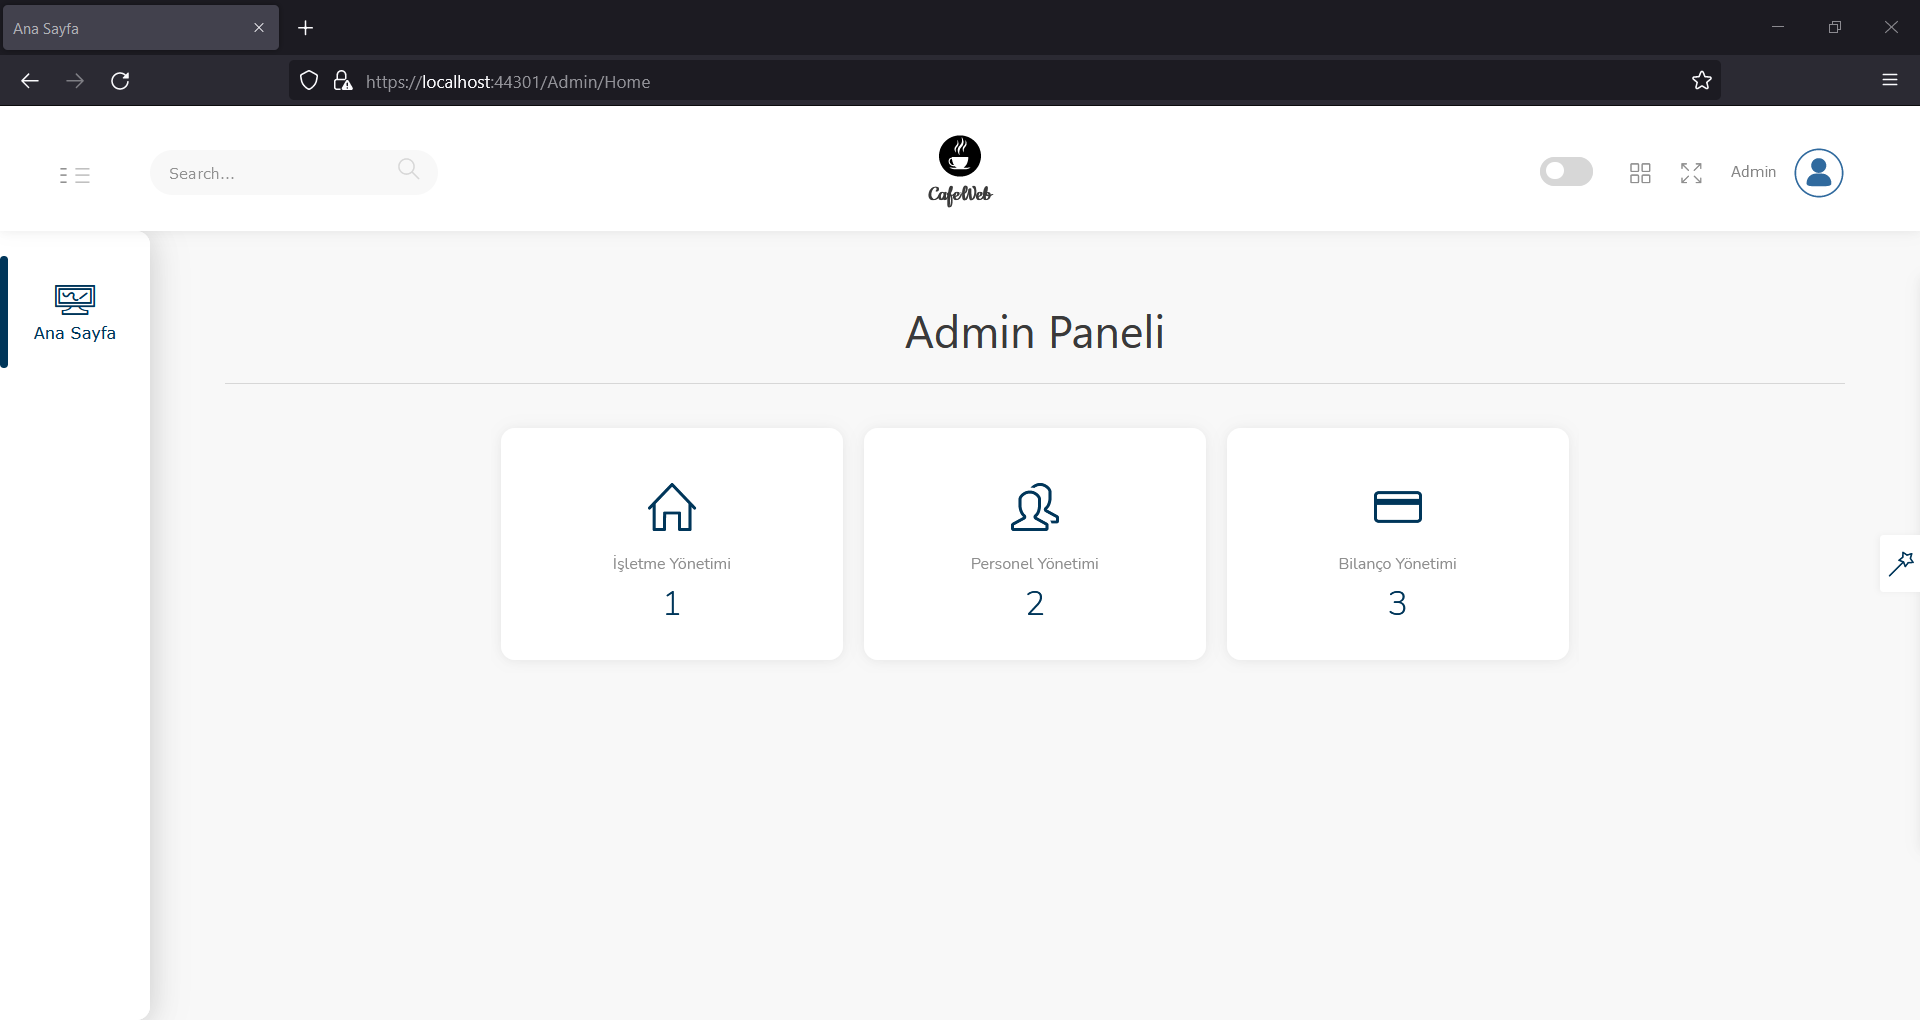
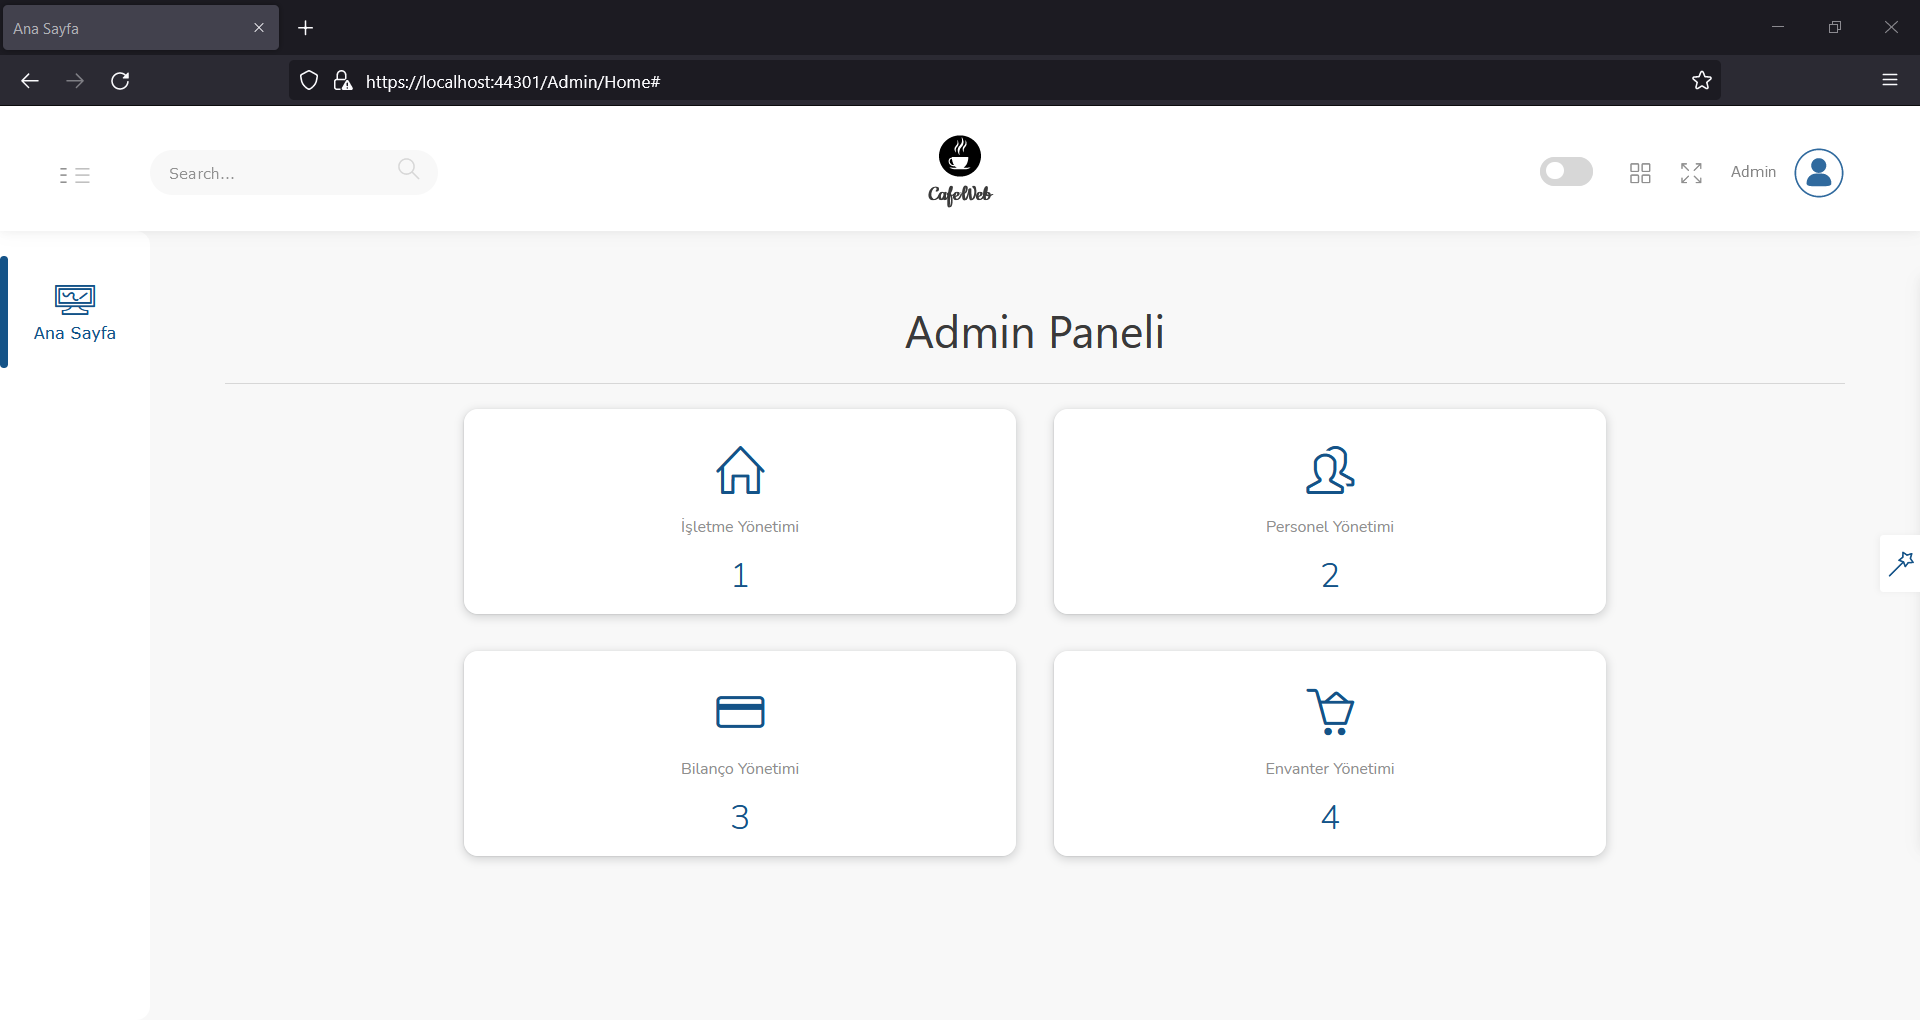
PostBack önlemi: setState ve işlemler için aksiyon alert

diff --git a/CafeWeb/Users/assets/js/main.js b/CafeWeb/Users/assets/js/main.js
@@ -1,9 +1,9 @@
 "use strict";
 
-function GetSelectedRow(txt) {
+function GetOrgRow(row) {
     $(document).ready(function () {
 
-        var gridRow = txt.parentNode.parentNode.parentNode;
+        var gridRow = row.parentNode.parentNode.parentNode;
         $('#orgUpdateId').val(gridRow.cells[0].textContent);
         $('#orgUpdateId').prop('readonly', true);
         $('#orgUpdateName').val(gridRow.cells[1].textContent);
@@ -20,7 +20,11 @@ var app = new Vue({
         save: true,
         edit: false,
         orgPop: false,
-        persPop: false
+        persPop: false,
+        isPostBack: false
+    },
+    mounted() {
+        this.getState();
     },
     methods: {
         focusBtn: function (typ) {
@@ -38,14 +42,58 @@ var app = new Vue({
 
                 default:
                     break;
-
             }
-
         },
         dynamicClass: function (btnList) {
             for (let i = 0; i < btnList.length; i++) {
                 document.getElementById(btnList[i]).className = 'btn';
                 document.getElementById(btnList[i]).classList.add('btn-light');
+            }
+        },
+        setState: function (showOrg, showPers, save, edit, isPostBack) {
+            sessionStorage.setItem('showOrg', showOrg);
+            sessionStorage.setItem('showPers', showPers);
+            sessionStorage.setItem('save', save);
+            sessionStorage.setItem('edit', edit);
+            sessionStorage.setItem('isPostBack', isPostBack);
+        },
+        getState: function () {
+            if (sessionStorage.getItem('isPostBack') != null || sessionStorage.getItem('isPostBack') != "") {
+                this.isPostBack = sessionStorage.getItem('isPostBack') == "true" ? true : false;
+
+                if (this.isPostBack) {
+                    if (sessionStorage.getItem('showOrg') != null || sessionStorage.getItem('showOrg') != "") {
+                        this.showOrg = sessionStorage.getItem('showOrg') == "true" ? true : false;
+                    }
+                    if (sessionStorage.getItem('showPers') != null || sessionStorage.getItem('showPers') != "") {
+                        this.showPers = sessionStorage.getItem('showPers') == "true" ? true : false;
+                    }
+                    if (sessionStorage.getItem('save') != null || sessionStorage.getItem('save') != "") {
+                        this.save = sessionStorage.getItem('save') == "true" ? true : false;
+                    }
+                    if (sessionStorage.getItem('edit') != null || sessionStorage.getItem('edit') != "") {
+                        this.edit = sessionStorage.getItem('edit') == "true" ? true : false;
+                    }
+
+                    this.isPostBack = false;
+                    sessionStorage.setItem('isPostBack', this.isPostBack);
+                }
+            }
+        }
+    },
+    watch: {
+        showOrg: function (val) {
+            if (!val && !this.showPers) {
+                this.save = true;
+                this.edit = false;
+                this.focusBtn('saveBtn');
+            }
+        },
+        showPers: function (val) {
+            if (!val && !this.showOrg) {
+                this.save = true;
+                this.edit = false;
+                this.focusBtn('saveBtn');
             }
         }
     }

diff --git a/CafeWeb/Users/assets/css/main.css b/CafeWeb/Users/assets/css/main.css
@@ -44,6 +44,42 @@ body.show-spinner::after {
   }
 }
 
+#adminIsl {
+    align-items: center !important;
+    align-self: center;
+    align-content: center !important;
+    justify-content: center !important;
+    justify-items: center !important;
+    justify-self: center;
+    row-gap: 2rem;
+    column-gap: 2rem;
+}
+
+#adminIsl .card {
+    box-shadow: rgba(60, 64, 67, 0.3) 0px 1px 2px 0px, rgba(60, 64, 67, 0.15) 0px 2px 6px 2px;
+}
+
+#adminIsl .card:hover {
+    box-shadow: rgba(0, 0, 0, 0.05) 0px 0px 0px 1px;
+}
+
+#adminIsl .card:active {
+    box-shadow: rgba(50, 50, 93, 0.25) 0px 30px 60px -12px inset, rgba(0, 0, 0, 0.3) 0px 18px 36px -18px inset;
+}
+
+#adminIsl .card {
+    padding: 1rem;
+}
+
+.form-box a {
+    align-items: center !important;
+    align-self: center;
+    align-content: center !important;
+    justify-content: center !important;
+    justify-items: center !important;
+    justify-self: center;
+}
+
 .styled-table {
     border-collapse: collapse;
     margin: 25px 0;

diff --git a/CafeWeb/Users/Admin/Home.aspx.cs b/CafeWeb/Users/Admin/Home.aspx.cs
@@ -33,7 +33,19 @@ namespace CafeWebAdmin
 
         protected void SaveOrg_ServerClick(object sender, EventArgs e)
         {
-            ApplicationDBContext.SetOrg(orgName.Value.ToString(), isActive.Checked); ;
+            var result = ApplicationDBContext.SetOrg(orgName.Value.ToString(), isActive.Checked);
+            if (result == '0')
+            {
+                Response.Write("<script>alert('Kayıt Başarılı');</script>");
+            }
+            else
+            {
+                Response.Write("<script>alert('Kayıt Başarısız!');</script>");
+            }
+            orgName.Value = "";
+            isActive.Checked = false;
+            OrgView.DataBind();
+            UserView.DataBind();
         }
 
         // The return type can be changed to IEnumerable, however to support
@@ -80,7 +92,15 @@ namespace CafeWebAdmin
 
         protected void orgUpdateBtn_ServerClick(object sender, EventArgs e)
         {
-            ApplicationDBContext.UpdateOrg(orgUpdateId.Value.Trim().ToString(), orgUpdateName.Value.Trim().ToString(), orgUpdateActive.Checked);
+            var result = ApplicationDBContext.UpdateOrg(orgUpdateId.Value.Trim().ToString(), orgUpdateName.Value.Trim().ToString(), orgUpdateActive.Checked);
+            if (result == '0')
+            {
+                Response.Write("<script>alert('Güncelleme Başarılı');</script>");
+            }
+            else
+            {
+                Response.Write("<script>alert('Güncelleme Başarısız!');</script>");
+            }
             OrgView.DataBind();
             UserView.DataBind();
         }

diff --git a/Database/ApplicationDBContext.cs b/Database/ApplicationDBContext.cs
@@ -28,7 +28,7 @@ namespace Database
             }
         }
 
-        public static void SetOrg(string orgName, bool isActive)
+        public static char SetOrg(string orgName, bool isActive)
         {
             DateTime strDate;
             using (CafeDataBaseEntities db = new CafeDataBaseEntities())
@@ -48,11 +48,15 @@ namespace Database
                     orgs.Add(org);
 
                     db.SaveChanges();
+
+                    return '0';
                 }
+
+                return '1';
             }
         }
 
-        public static void UpdateOrg(string orgId, string orgName, bool isActive)
+        public static char UpdateOrg(string orgId, string orgName, bool isActive)
         {
             using (CafeDataBaseEntities db = new CafeDataBaseEntities())
             {
@@ -66,7 +70,11 @@ namespace Database
                     DateTime date = DateTime.Now;
                     obj.ChangedAt = date;
                     db.SaveChanges();
+
+                    return '0';
                 }
+
+                return '1';
             }
         }
 
